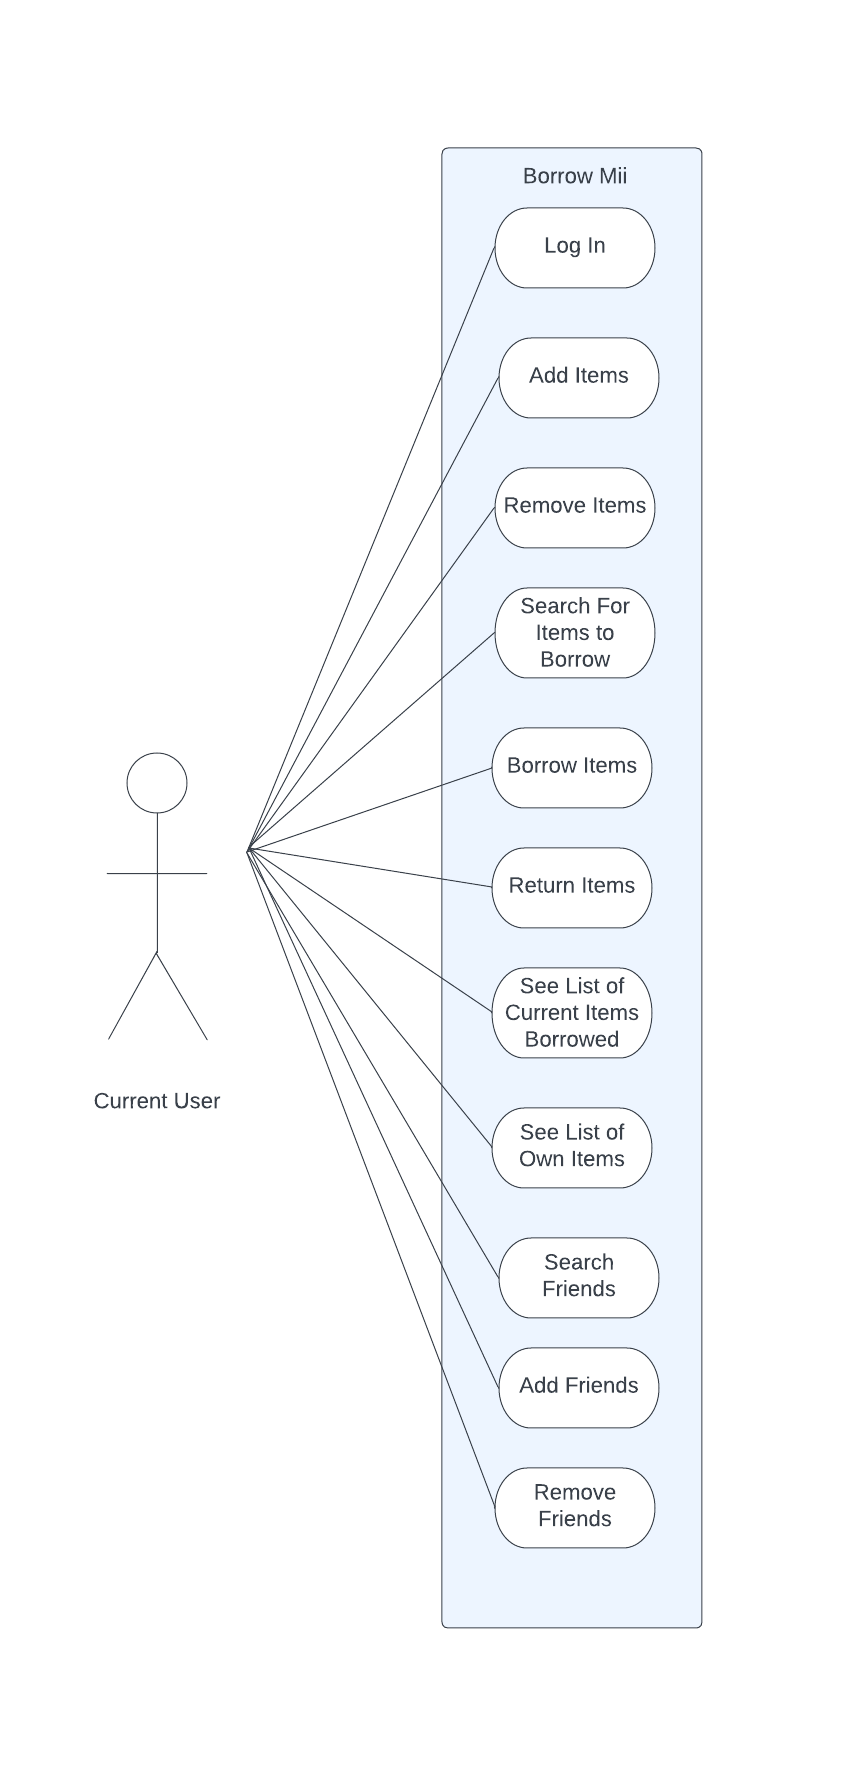
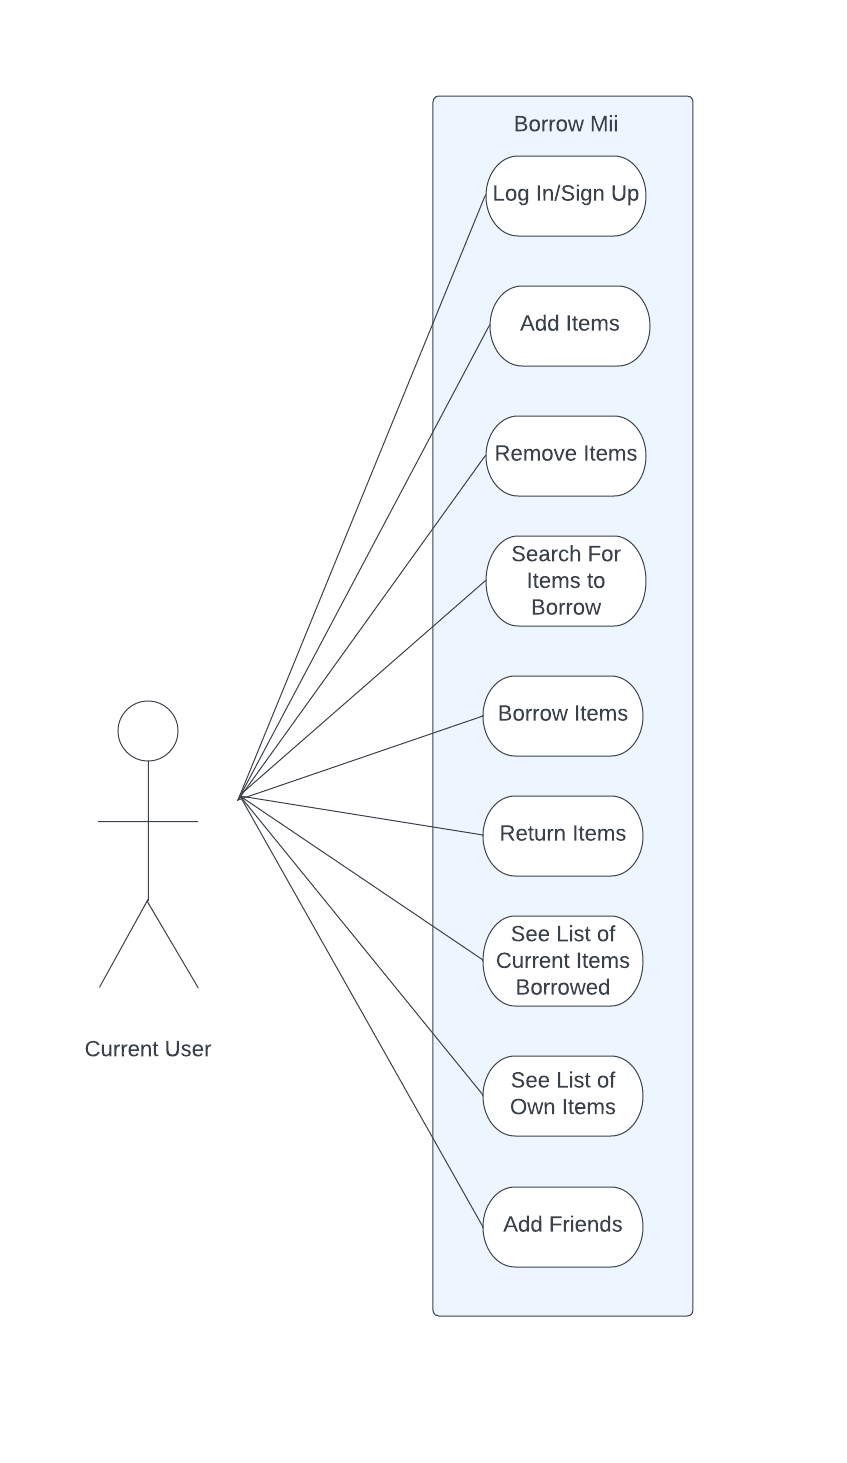
added ssd and modified usecase, simple database testing, item testing

diff --git a/lib/databaseController.dart b/lib/databaseController.dart
@@ -176,28 +176,6 @@ void borrowItemDatabase(Item item) async {
   reference.collection("users").doc(cuser.uname).set(cuser.toFirestore());
 
   editFriendsDatabase(item, "Borrowed");
-
-  // List<dynamic> friendsItems = [];
-  // await FirebaseFirestore.instance
-  //     .collection("users")
-  //     .doc(itemOwner)
-  //     .get()
-  //     .then((DocumentSnapshot documentSnapshot) {
-  //   if (documentSnapshot.exists) {
-  //     friendsItems = documentSnapshot.get("myItems");
-  //     for (var itemMap in friendsItems) {
-  //       if (itemMap["itemName"] == item.itemname) {
-  //         itemMap["status"] = "Borrowed";
-  //       }
-  //     }
-  //   } else {
-  //     print("Friend not found in Database");
-  //   }
-  // });
-  // reference
-  //     .collection("users")
-  //     .doc(item.getOwner())
-  //     .update({"myItems": friendsItems});
 }
 
 void editFriendsDatabase(Item item, String status) async {
@@ -232,29 +210,6 @@ void returnItemDatabase(Item item) async {
   reference.collection("users").doc(cuser.uname).set(cuser.toFirestore());
 
   editFriendsDatabase(item, "Available");
-
-  // String itemOwner = item.getOwner();
-  // List<dynamic> friendsItems = [];
-  // await FirebaseFirestore.instance
-  //     .collection("users")
-  //     .doc(itemOwner)
-  //     .get()
-  //     .then((DocumentSnapshot documentSnapshot) {
-  //   if (documentSnapshot.exists) {
-  //     friendsItems = documentSnapshot.get("myItems");
-  //     for (var itemMap in friendsItems) {
-  //       if (itemMap["itemName"] == item.itemname) {
-  //         itemMap["status"] = "Available";
-  //       }
-  //     }
-  //   } else {
-  //     print("Friend not found in Database");
-  //   }
-  // });
-  // reference
-  //     .collection("users")
-  //     .doc(item.getOwner())
-  //     .update({"myItems": friendsItems});
 }
 
 void addFriend(String friendUName) async {

diff --git a/test/database_test.dart b/test/database_test.dart
@@ -1,0 +1,32 @@
+// import 'package:team_d_project/person.dart';
+// import 'package:team_d_project/item.dart';
+// import 'package:flutter/material.dart';
+import 'package:cloud_firestore/cloud_firestore.dart';
+import 'package:flutter_test/flutter_test.dart';
+import 'package:fake_cloud_firestore/fake_cloud_firestore.dart';
+
+void main() {
+  // Process as shown at https://blog.victoreronmosele.com/mocking-firestore-flutter
+  test('simple database write/get test', () async {
+    final FakeFirebaseFirestore fakeFirebaseFirestore = FakeFirebaseFirestore();
+
+    const String collectionPath = 'users';
+    const String documentPath = 'username';
+
+    const Map<String, dynamic> data = {'userName': documentPath};
+
+    await fakeFirebaseFirestore
+        .collection(collectionPath)
+        .doc(documentPath)
+        .set(data);
+
+    final DocumentSnapshot<Map<String, dynamic>> documentSnapshot =
+        await fakeFirebaseFirestore
+            .collection(collectionPath)
+            .doc(documentPath)
+            .get();
+    final Map<String, dynamic> actualData = documentSnapshot.data()!;
+
+    expect(actualData, data);
+  });
+}

diff --git a/test/item_test.dart b/test/item_test.dart
@@ -1,0 +1,24 @@
+import 'package:team_d_project/person.dart';
+import 'package:team_d_project/item.dart';
+import 'package:flutter/material.dart';
+import 'package:flutter_test/flutter_test.dart';
+
+void main() {
+  test('getOwner test', () {
+    Item testitem = Item('hammer', 'admin', 'Available');
+
+    expect(testitem.getOwner(), 'admin');
+  });
+
+  test('getStatus test', () {
+    Item testitem = Item('hammer', 'admin', 'Available');
+
+    expect(testitem.getStatus(), 'Available');
+  });
+
+  test('setStatus test', () {
+    Item testitem = Item('hammer', 'admin', 'Available');
+    testitem.setStatus("Borrowed");
+    expect(testitem.getStatus(), 'Borrowed');
+  });
+}
